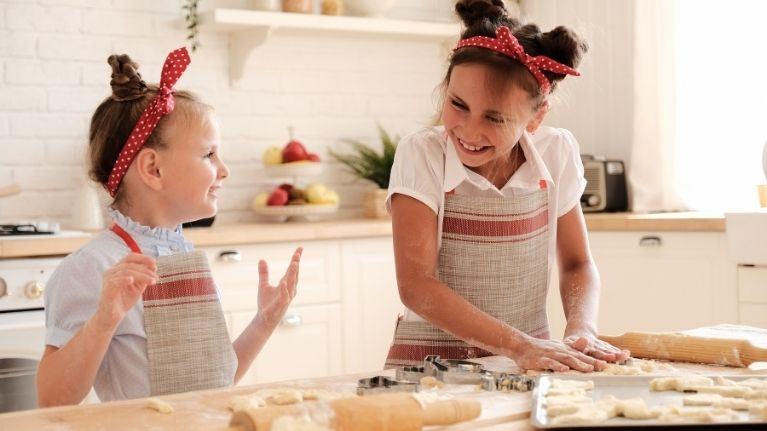
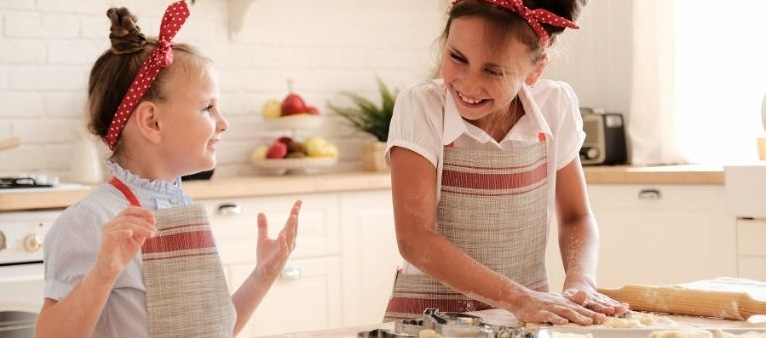
agregue la ubicacion

diff --git a/index.html b/index.html
@@ -17,9 +17,9 @@
         <div>
             <nav>
                 <ul>
-                    <li><a href="#">Inicio</a></li>
+                    <li><a href="saludo">Inicio</a></li>
                     <li><a href="delantales.html">Productos</a></li>
-                    <li><a href="#contacto">Contacto</a></li>
+                    <li><a href="compra.html">Venta</a></li>
                    
                 </ul>
             </nav>
@@ -30,14 +30,14 @@
             <img class="photo" src="imagenes/perfil5.jpg" alt="perfil de eugenia">
         </div>
         <div class="saludo">
-            <p>Hola! Soy Eugenia, y estoy aprendiendo a programar en <span>HTML</span>. Estoy en el curso que ofrece la <span>Escuela de Oficios UNC</span>.<br> Por lo pronto, me resulta divertido cada tema nuevo que estoy aprendiendo en mis clases.<br> <br>Mi objetivo es insertarme en el mundo <span>IT</span> para obtener una salida laboral dentro del rubro en el que mejor me sienta capacitada y me haga feliz.<br><br>En este página podrán ver mi aprendizaje, espero que les satisfagan mis avances.</p>
+            <p>Hola! Soy Eugenia, y estoy aprendiendo a programar en <span>HTML</span>. Estoy en el curso que ofrece la <span>Escuela de Oficios UNC</span>.<br> Por lo pronto, me resulta divertido cada tema nuevo que estoy aprendiendo en mis clases.<br> <br>Mi objetivo es insertarme en el mundo <span>IT</span> para obtener una salida laboral dentro del rubro en el que mejor me sienta capacitada y me haga feliz.<br><br>En esta página podrán ver mi aprendizaje, espero que les satisfagan mis avances.</p>
         </div>
     </main>
     <footer>
         <div class="contacto">
-            <a href="#"><img class="redes" src="imagenes/Facebook.png" alt="facebook"></a>
-            <a href="#"><img class="redes" src="imagenes/whatssap1.png" alt="whatssap"></a>
-            <a href="#"><img class="redes" src="imagenes/twitter.png" alt="twiter"></a>
+            <a href="#"><img class="redes" src="imagenes/logofacebook.png" alt="facebook"></a>
+            <a href="#"><img class="redes" src="imagenes/logowhat.png" alt="whatssap"></a>
+            <a href="#"><img class="redes" src="imagenes/logoinstagram.png" alt="twiter"></a>
         </div>
     </footer>
 </body>

diff --git a/compra.html b/compra.html
@@ -5,6 +5,7 @@
     <meta http-equiv="X-UA-Compatible" content="IE=edge">
     <meta name="viewport" content="width=device-width, initial-scale=1.0">
     <title>compra</title>
+    <link rel="stylesheet" href="https://cdn.jsdelivr.net/npm/bootstrap@4.6.2/dist/css/bootstrap.min.css" integrity="sha384-xOolHFLEh07PJGoPkLv1IbcEPTNtaed2xpHsD9ESMhqIYd0nLMwNLD69Npy4HI+N" crossorigin="anonymous">
     <link rel="stylesheet" href="delantal.css">
 </head>
 <body>
@@ -12,6 +13,9 @@
         <h1><marquee>kids' APRON</marquee></h1>
     </header>
     <main>
+        <section class="banner">
+            <img src="imagenes/tendedero2.jpg" alt="">
+        </section>
         <div class="contenedor-tarjetas panel-horizontal container ">
             <div class="card" >
                 <img class= "card-img- top" src="/imagenes/belgrano 2.jpg" alt="">
@@ -196,6 +200,15 @@
                     <input type="color" name="" id="">Elige el color del delantal
             </fieldset>
         </form>
+        <section class="local">
+            <h3>VISITA NUESTRO LOCAL</h3>
+            <div>
+                <div class="fotolocal"><img src="/imagenes/local1.jpg" alt=""></div>
+                <div class="ubicacion"><iframe src="https://www.google.com/maps/embed?pb=!1m18!1m12!1m3!1d3404.6622004283363!2d-64.15180712489669!3d-31.423431796591!2m3!1f0!2f0!3f0!3m2!1i1024!2i768!4f13.1!3m3!1m2!1s0x9432a2b4dedbe7d9%3A0x52549a2361c0a6a8!2sSan%20Jer%C3%B3nimo%202700%2C%20X5006IKD%20C%C3%B3rdoba!5e0!3m2!1ses!2sar!4v1669845438169!5m2!1ses!2sar" width="600" height="450" style="border:0;" allowfullscreen="" loading="lazy" referrerpolicy="no-referrer-when-downgrade"></iframe></div>
+               
+            </div>
+
+        </section>    
     </main>
     <footer class="footer">
         <div class="content has-text-centered">

diff --git a/delantal.css b/delantal.css
@@ -222,3 +222,19 @@ button{
 .compra{
     background-color: rgba(78, 255, 246, 0.144);
 }
+
+.local{
+    display:flex;
+    justify-content: space-around;
+}
+section > h3{
+    height: 80px;
+    display: flex;
+}
+
+.fotolocal {
+    display: flex;
+}
+.ubicacion {
+    display: flex;
+}
